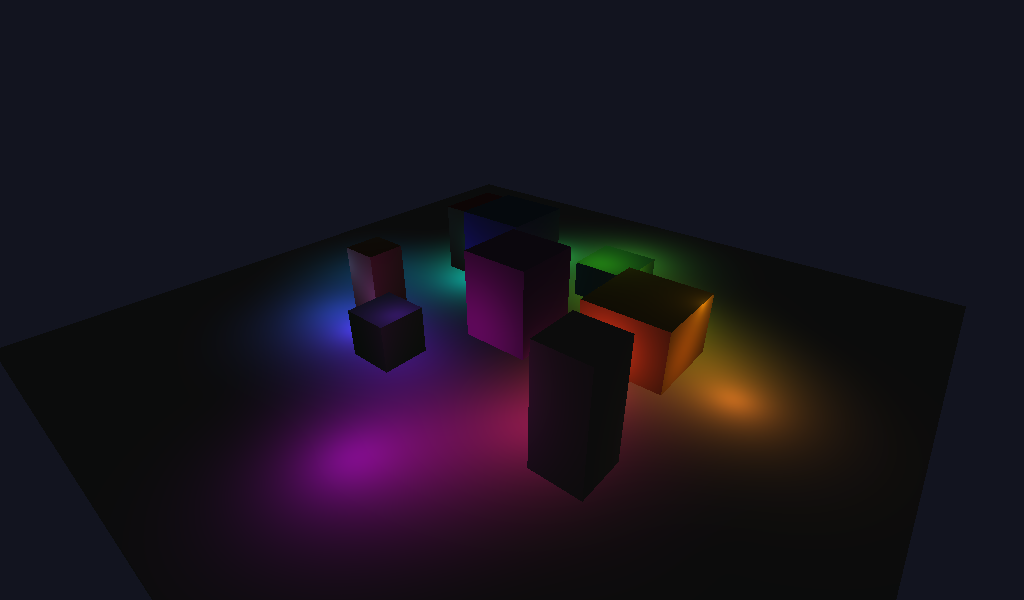
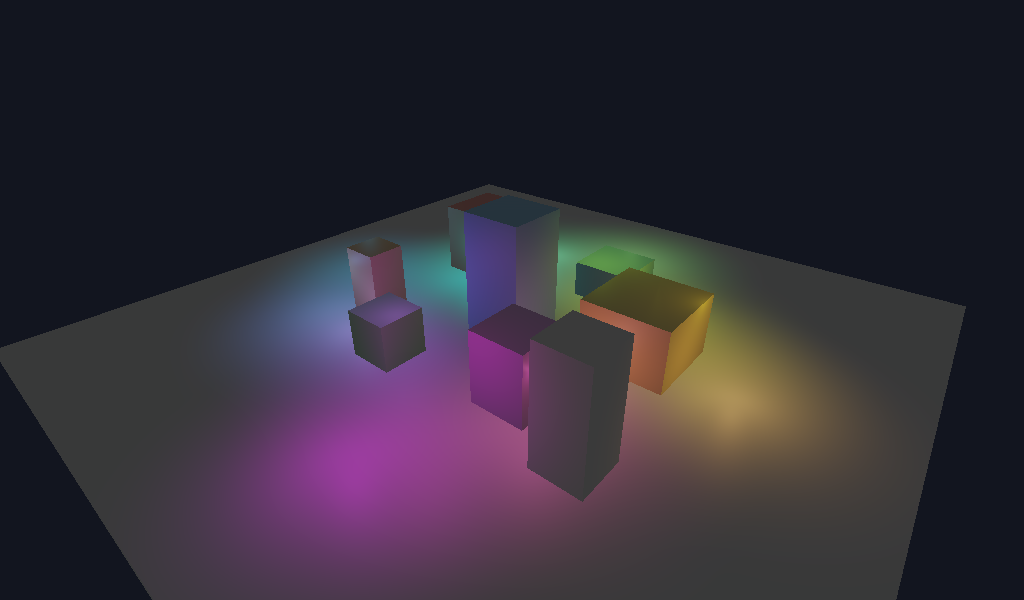
fix: linear-to-display pipeline and scene corrections from shader review
The resolve wrote linear lighting straight to the UNORM swapchain, so
the display gamma crushed everything dark — add Reinhard tonemap and a
gamma encode (sky constant retuned to linear). Add the Blinn-Phong
specular term camera_pos was reserved for, seat the one cube that
floated 1.7 units above the ground, move the per-frame light data into
the frame arena (the persistent buffer raced frames in flight), and
fold the redundant coverage fetch into the position sample.

Claude-Session: https://claude.ai/code/session_01Mv4HZGX2R41pWc1YXug2vs

diff --git a/deferred_shading/README.md b/deferred_shading/README.md
@@ -34,10 +34,12 @@ geometry pass (MRT)                       resolve pass
 - G-buffer targets are read through the descriptor heap (`TextureIndex` per
   target + one `NEAREST` sampler in the root), so the resolve is plain
   root-pointer plumbing like any other pass.
-- Lights live in a persistent-upload storage buffer addressed from the root
-  (`lights_gpu` + `light_count`); the CPU rewrites all 16 each frame to orbit
-  them. Shading is `ambient + Σ albedo · light_color · lambert · atten²` with
-  a smooth radius falloff.
+- Lights are written into the frame arena each frame (frame N-1 may still be
+  reading its copy on the GPU) and addressed from the root (`lights_gpu` +
+  `light_count`). Shading is
+  `ambient + Σ (albedo · lambert + blinn_phong) · light_color · atten²`,
+  then Reinhard tonemap and a gamma encode — the swapchain is UNORM, not
+  sRGB, so linear light written raw would display crushed-dark.
 
 ## Barriers
 